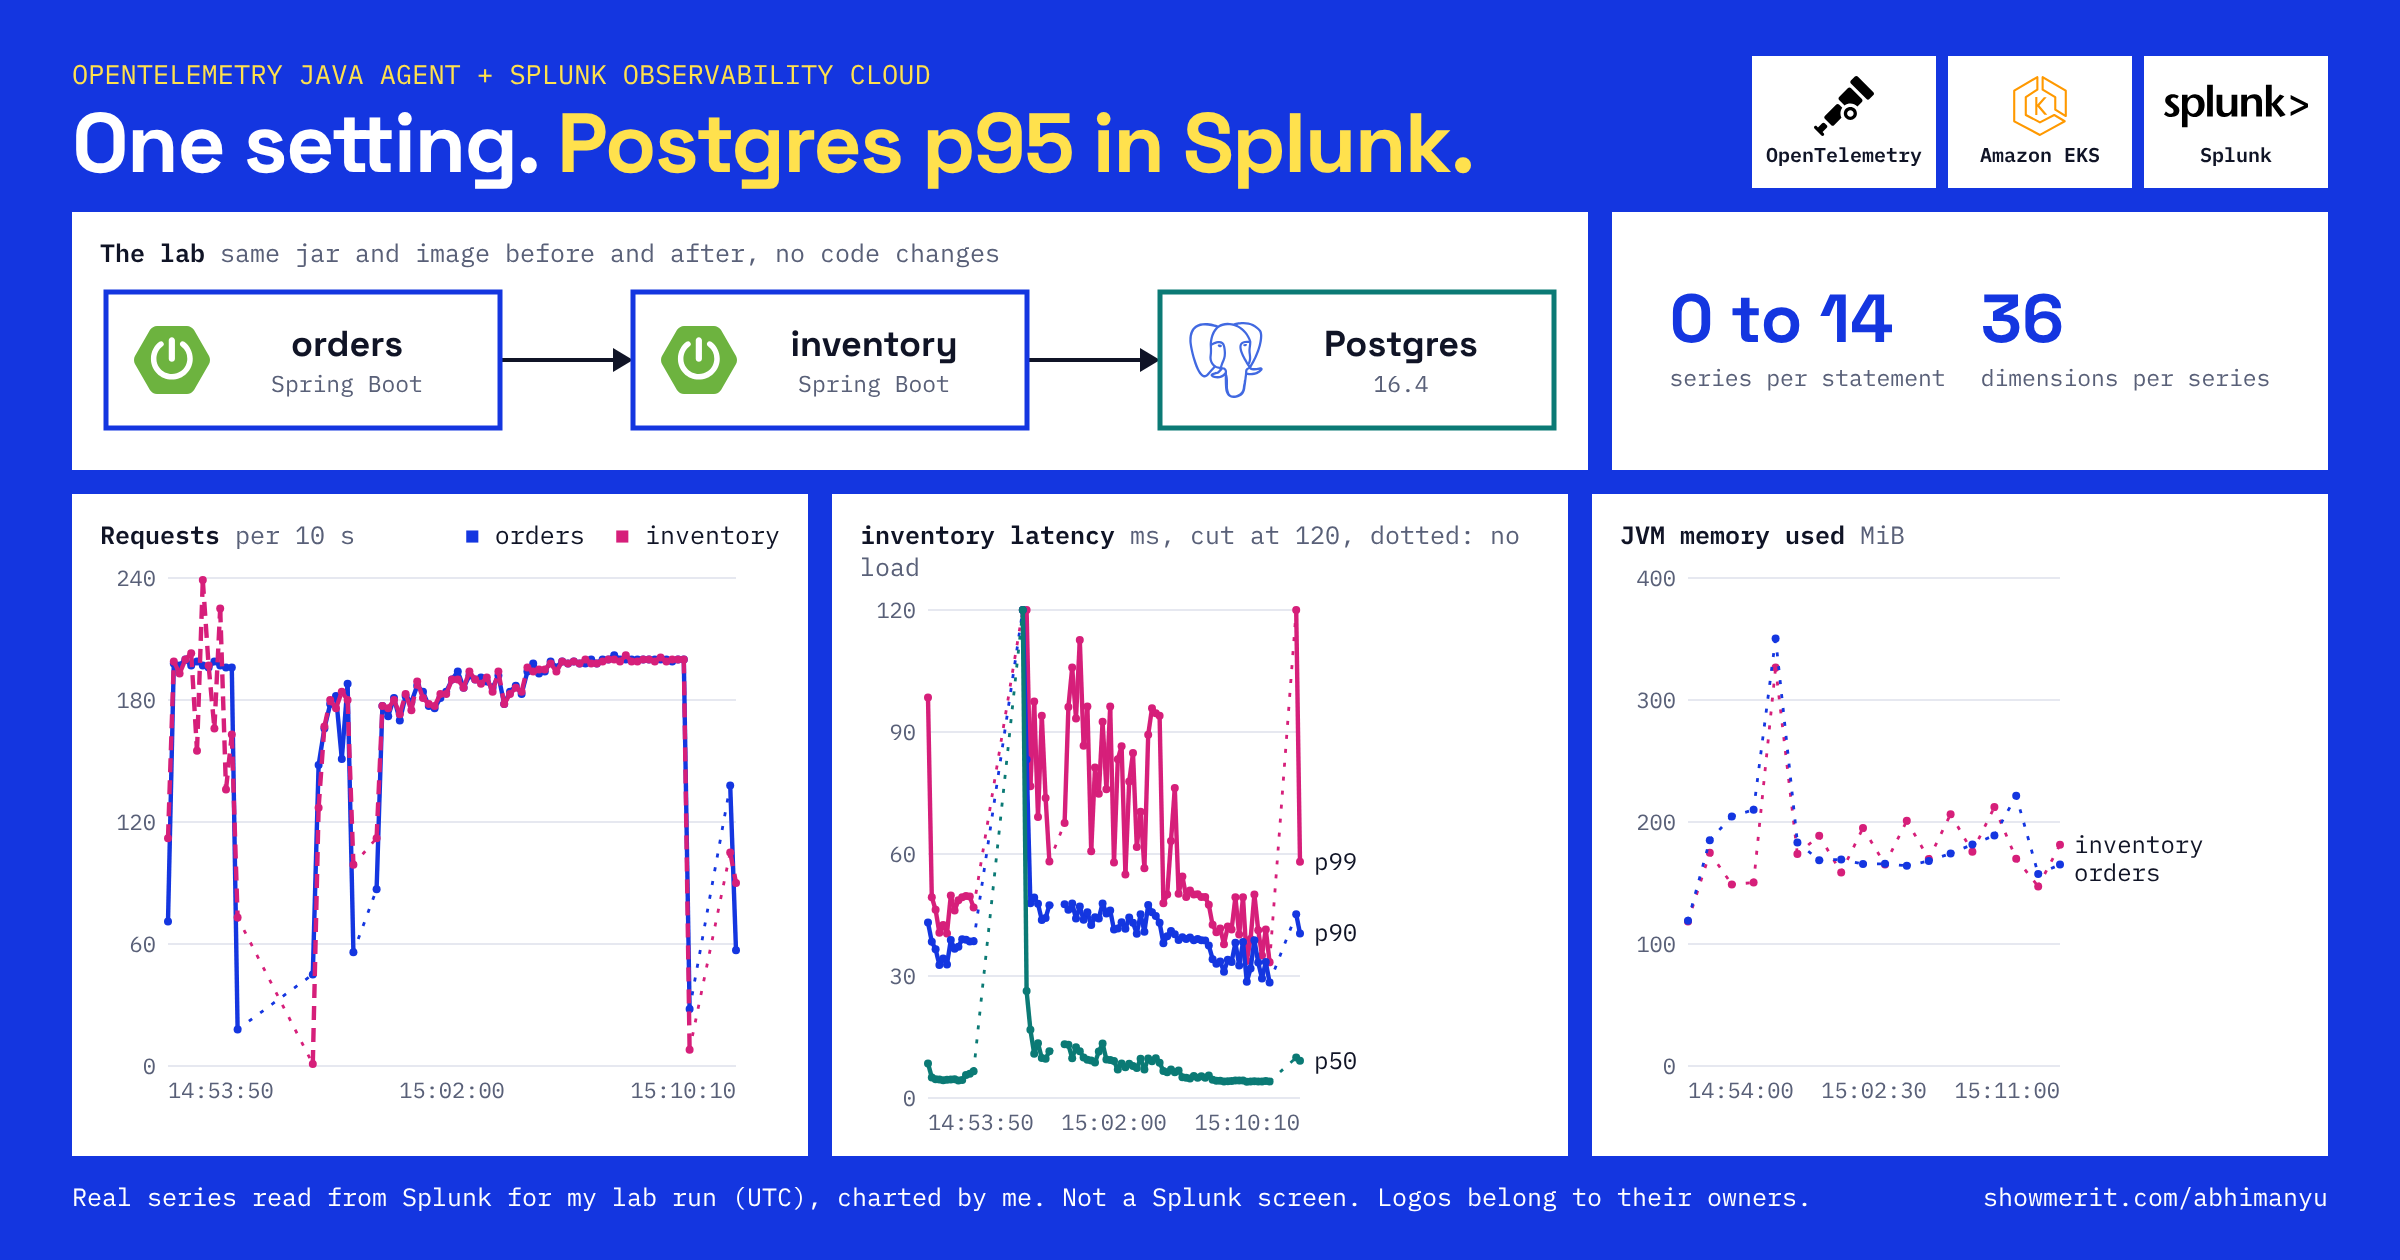
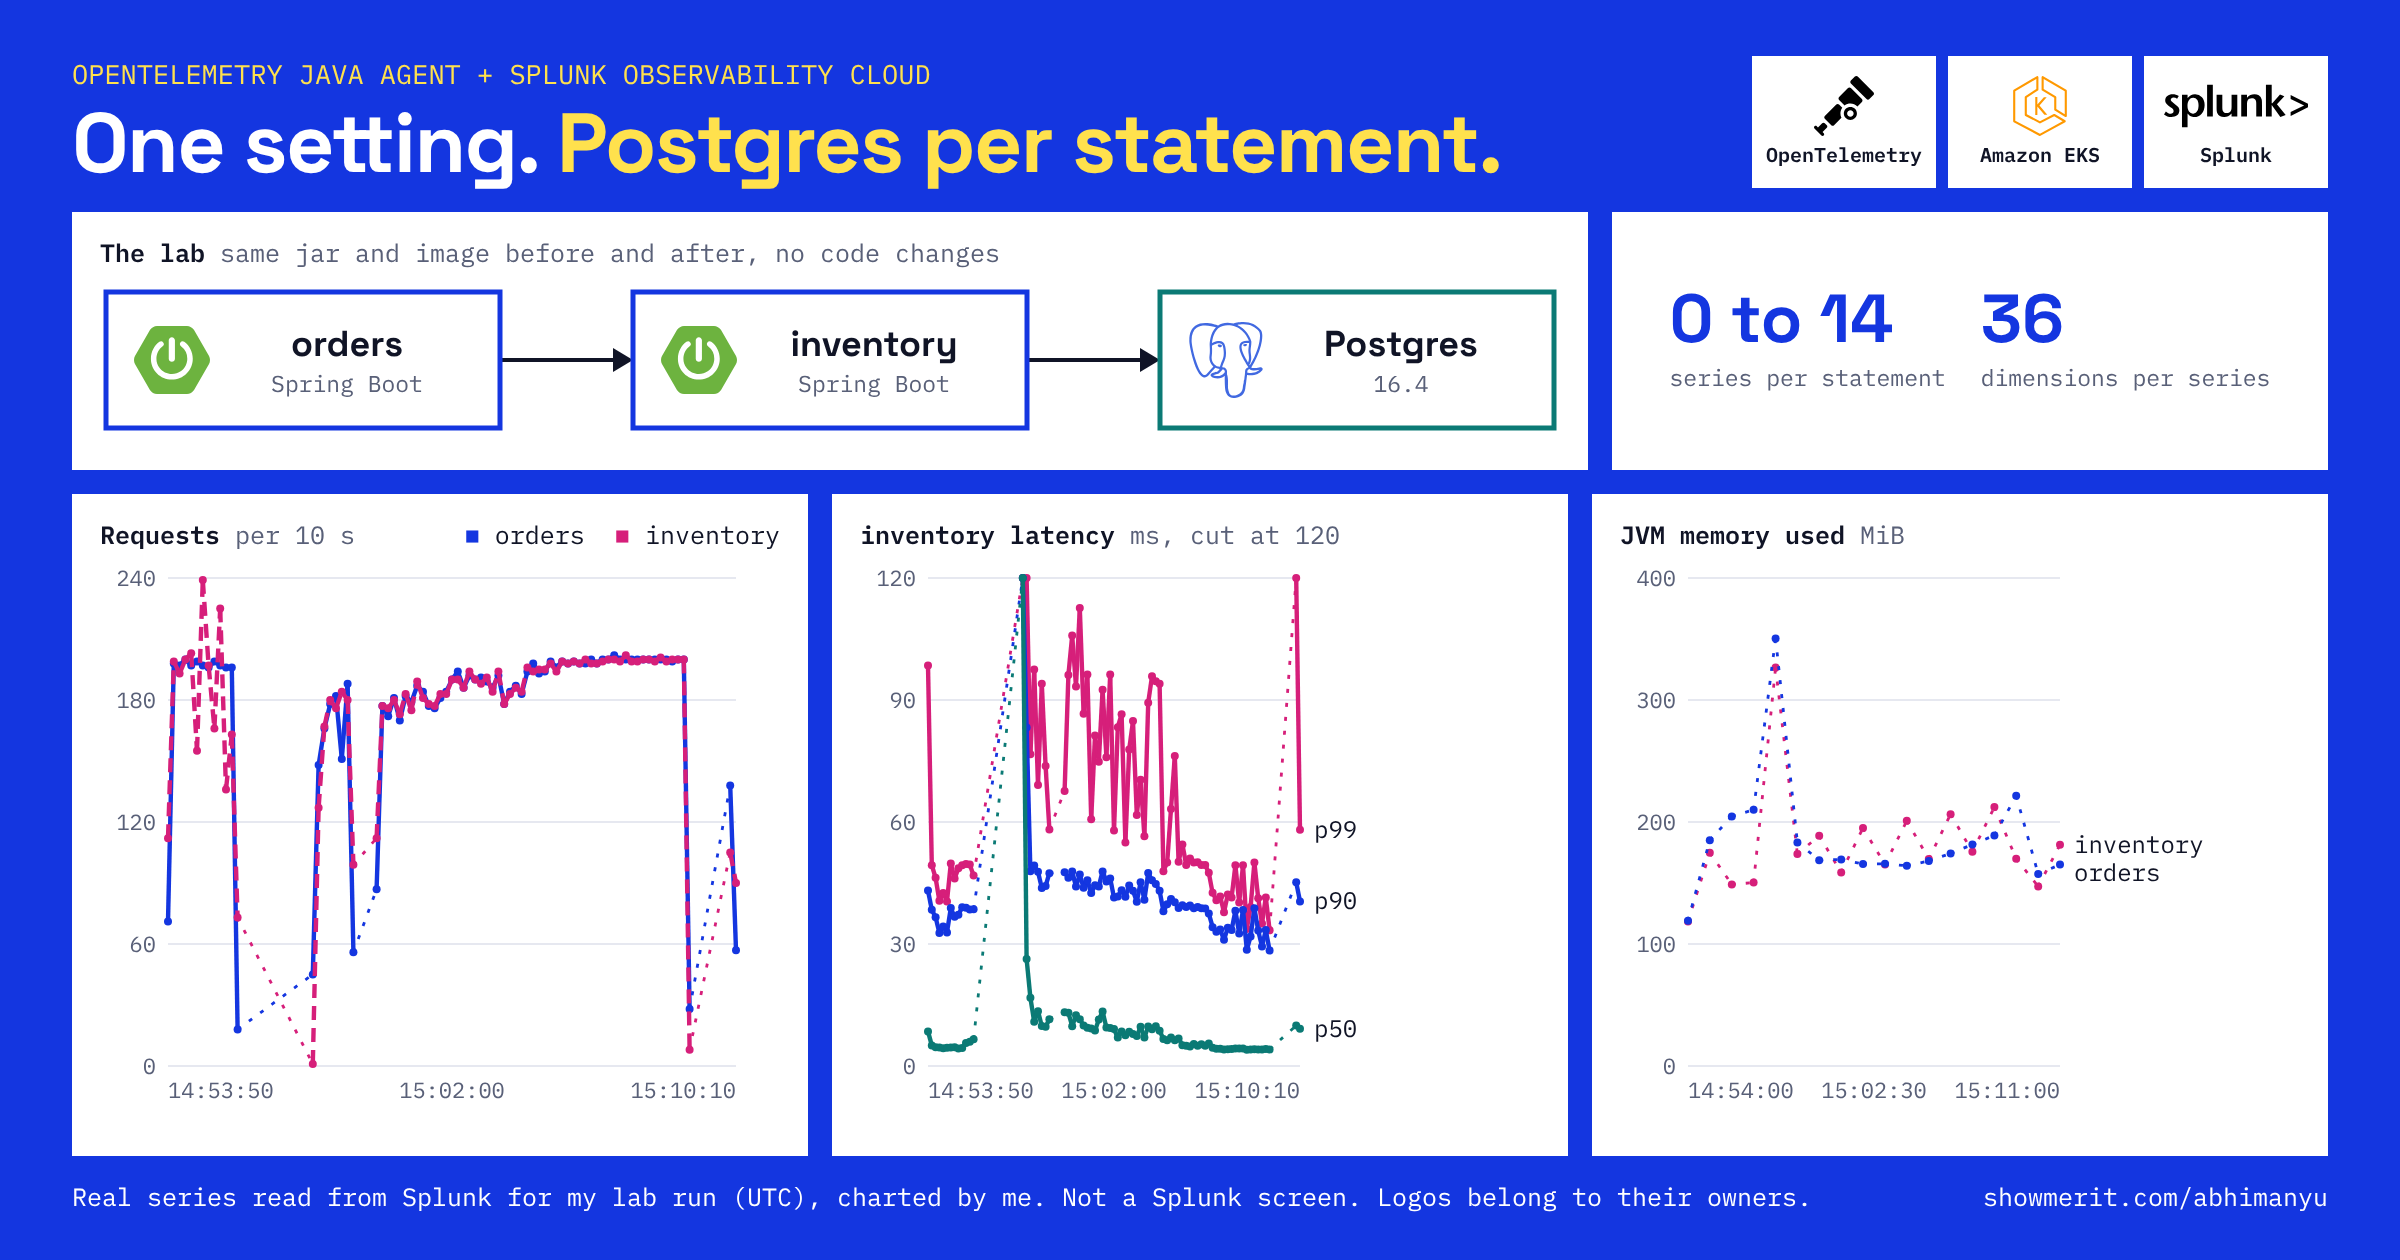
Lead the Postgres article with per-statement metrics and the dimension budget

diff --git a/chat-work/161/figures/build.py b/chat-work/161/figures/build.py
@@ -64,13 +64,13 @@ BASE=f"""*{{box-sizing:border-box;margin:0;padding:0}}{F}body{{background:#1436E
 chip=lambda n,t,z=30:f'<div style="display:flex;flex-direction:column;align-items:center;gap:3px;background:#fff;color:{INK};width:92px;height:66px;justify-content:center;font:600 10px Plex;overflow:hidden"><div style="height:30px;display:flex;align-items:center">{logo(n,z)}</div>{t}</div>'
 FOOT="Real series read from Splunk for my lab run (UTC), charted by me. Not a Splunk screen. Logos belong to their owners."
 COVER=f"""<!doctype html><meta charset=utf-8><style>{BASE}</style><body style="width:1200px;height:630px;padding:28px 36px 24px;display:flex;flex-direction:column;gap:12px;overflow:hidden">
-<div style="display:flex;justify-content:space-between;align-items:flex-end;gap:16px"><div><div style="font:400 13.5px 'Plex';color:#FFE14D">OPENTELEMETRY JAVA AGENT + SPLUNK OBSERVABILITY CLOUD</div><div style="font:700 42px/1.08 'Space Grotesk';letter-spacing:-.02em;margin-top:3px">One setting. <span style="color:#FFE14D">Postgres p95 in Splunk.</span></div></div>
+<div style="display:flex;justify-content:space-between;align-items:flex-end;gap:16px"><div><div style="font:400 13.5px 'Plex';color:#FFE14D">OPENTELEMETRY JAVA AGENT + SPLUNK OBSERVABILITY CLOUD</div><div style="font:700 42px/1.08 'Space Grotesk';letter-spacing:-.02em;margin-top:3px">One setting. <span style="color:#FFE14D">Postgres per statement.</span></div></div>
 <div style="display:flex;gap:6px">{chip("otel","OpenTelemetry")}{chip("eks","Amazon EKS")}{chip("splunk","Splunk",72)}</div></div>
 <div style="display:flex;gap:12px"><div class=p style="flex:1"><div class=h>The lab <span class=u>same jar and image before and after, no code changes</span></div>{smap(730)}</div>
 <div class=p style="width:366px;display:flex;justify-content:space-around;align-items:center;padding:12px 20px"><div class=s><b>0 to 14</b><span>series per statement</span></div><div class=s><b>36</b><span>dimensions per series</span></div></div></div>
 <div style="display:flex;gap:12px;flex:1;min-height:0">
 <div class=p style="flex:1;min-width:0"><div class=h>Requests <span class=u>per 10 s</span> <span style="float:right;font-weight:400">{key}</span></div>{req(340,272)}</div>
-<div class=p style="flex:1;min-width:0"><div class=h>inventory latency <span class=u>ms, cut at 120, dotted: no load</span></div>{lat(340,272)}</div>
+<div class=p style="flex:1;min-width:0"><div class=h>inventory latency <span class=u>ms, cut at 120</span></div>{lat(340,272)}</div>
 <div class=p style="flex:1;min-width:0"><div class=h>JVM memory used <span class=u>MiB</span></div>{mem(340,272)}</div></div>
 <div style="display:flex;justify-content:space-between;font:400 12.5px 'Plex'"><span>{FOOT}</span><span>showmerit.com/abhimanyu</span></div></body>"""
 WIDE=f"""<!doctype html><meta charset=utf-8><style>{BASE}</style><body style="width:900px;padding:16px;display:flex;flex-direction:column;gap:10px">
